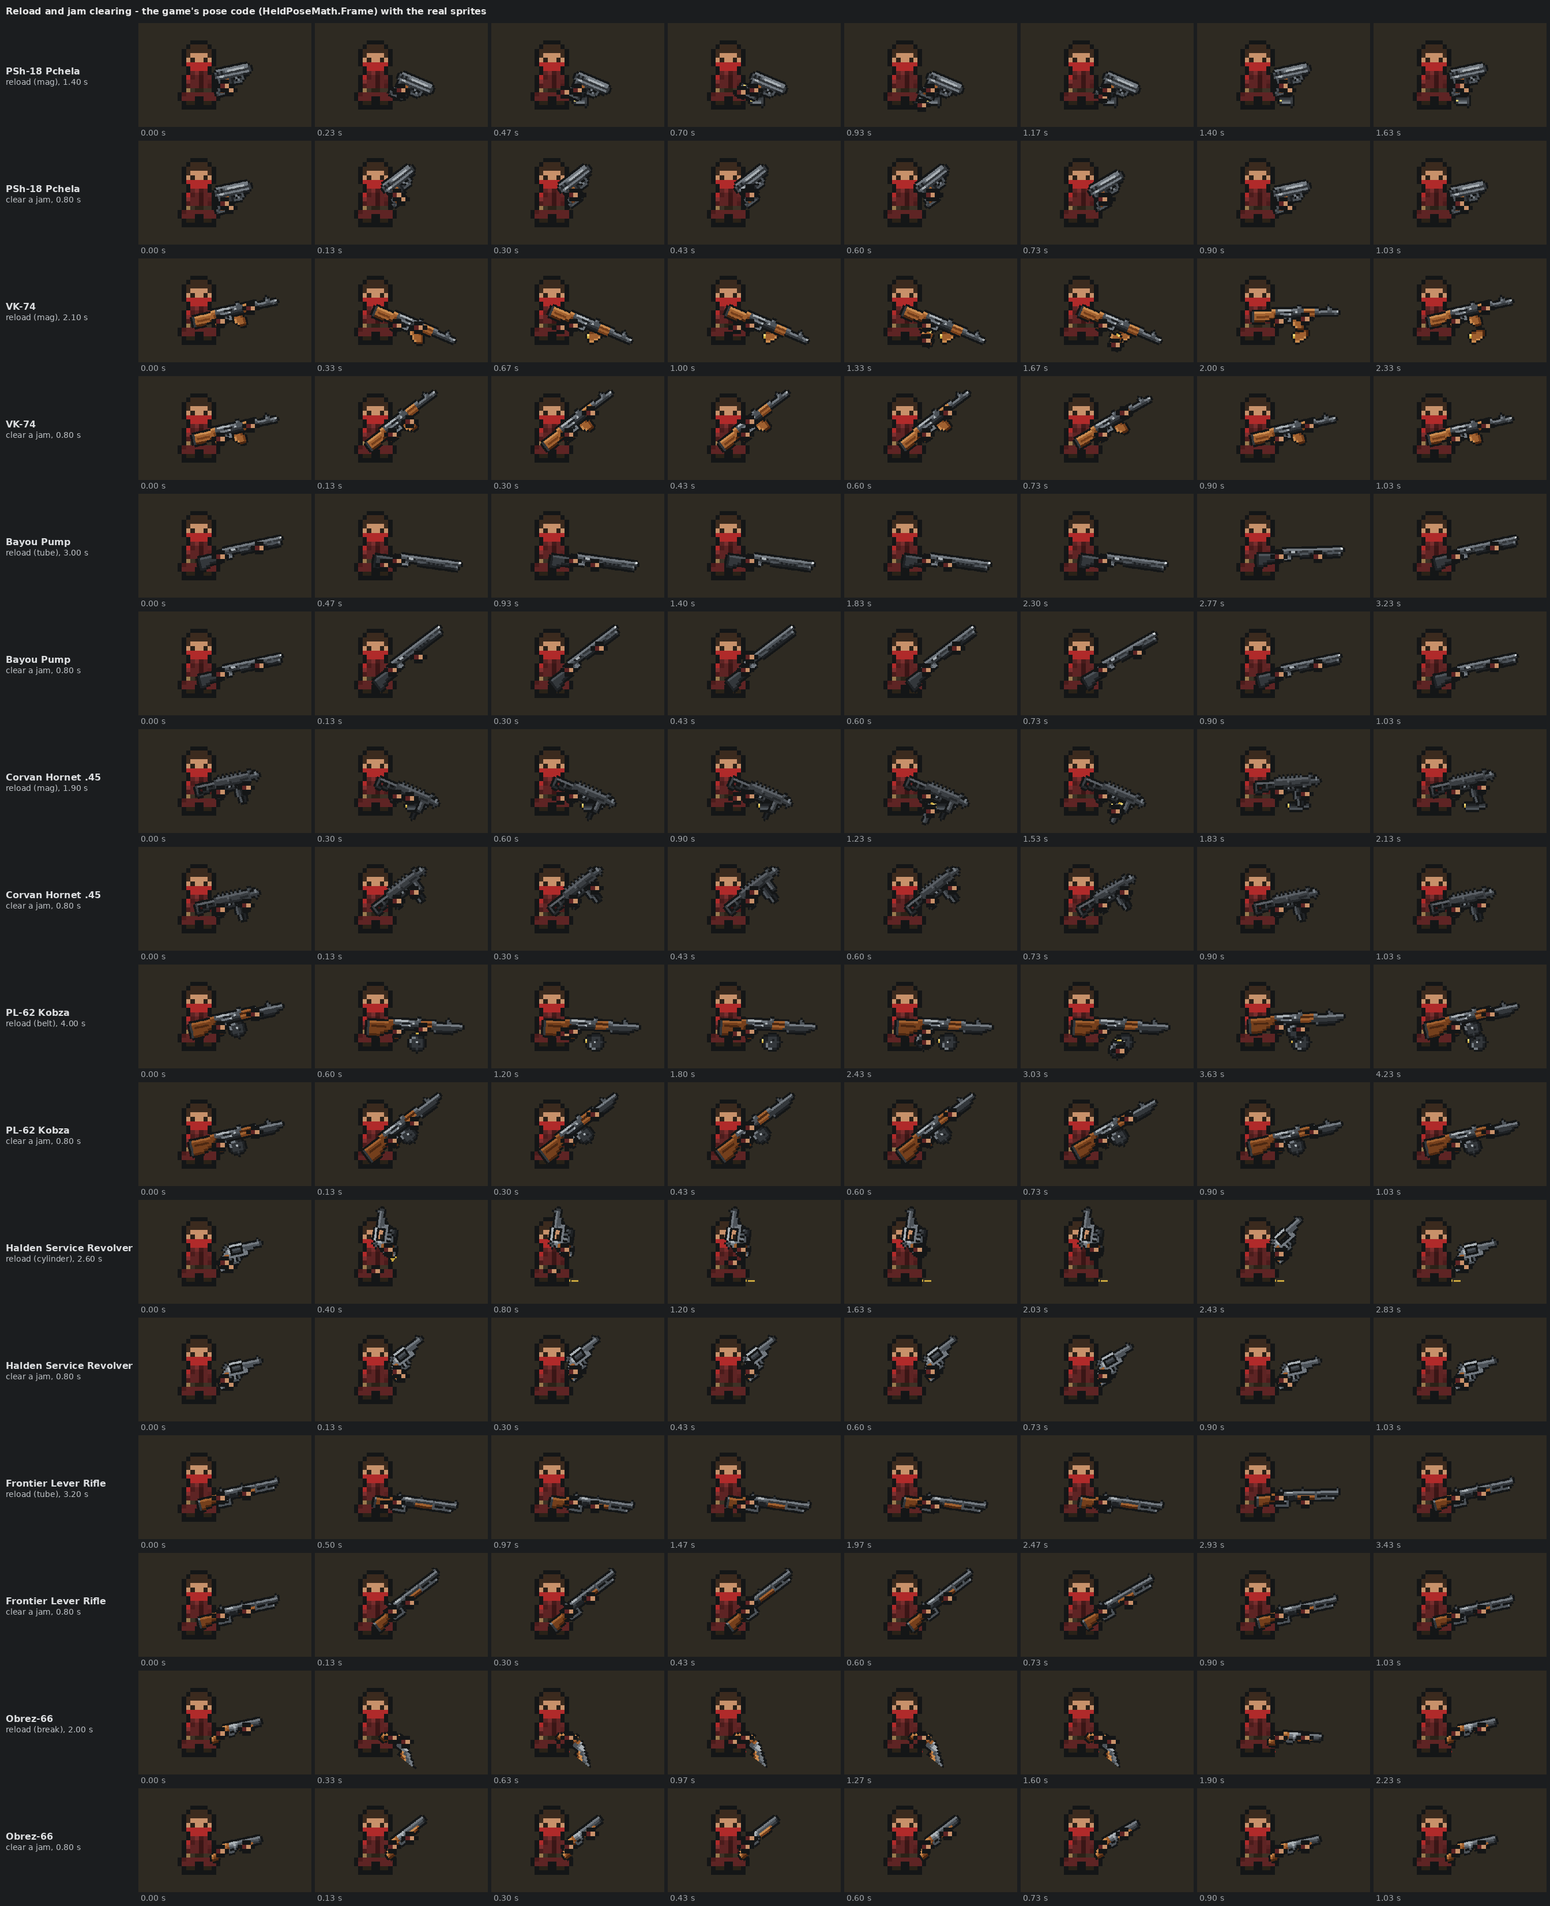
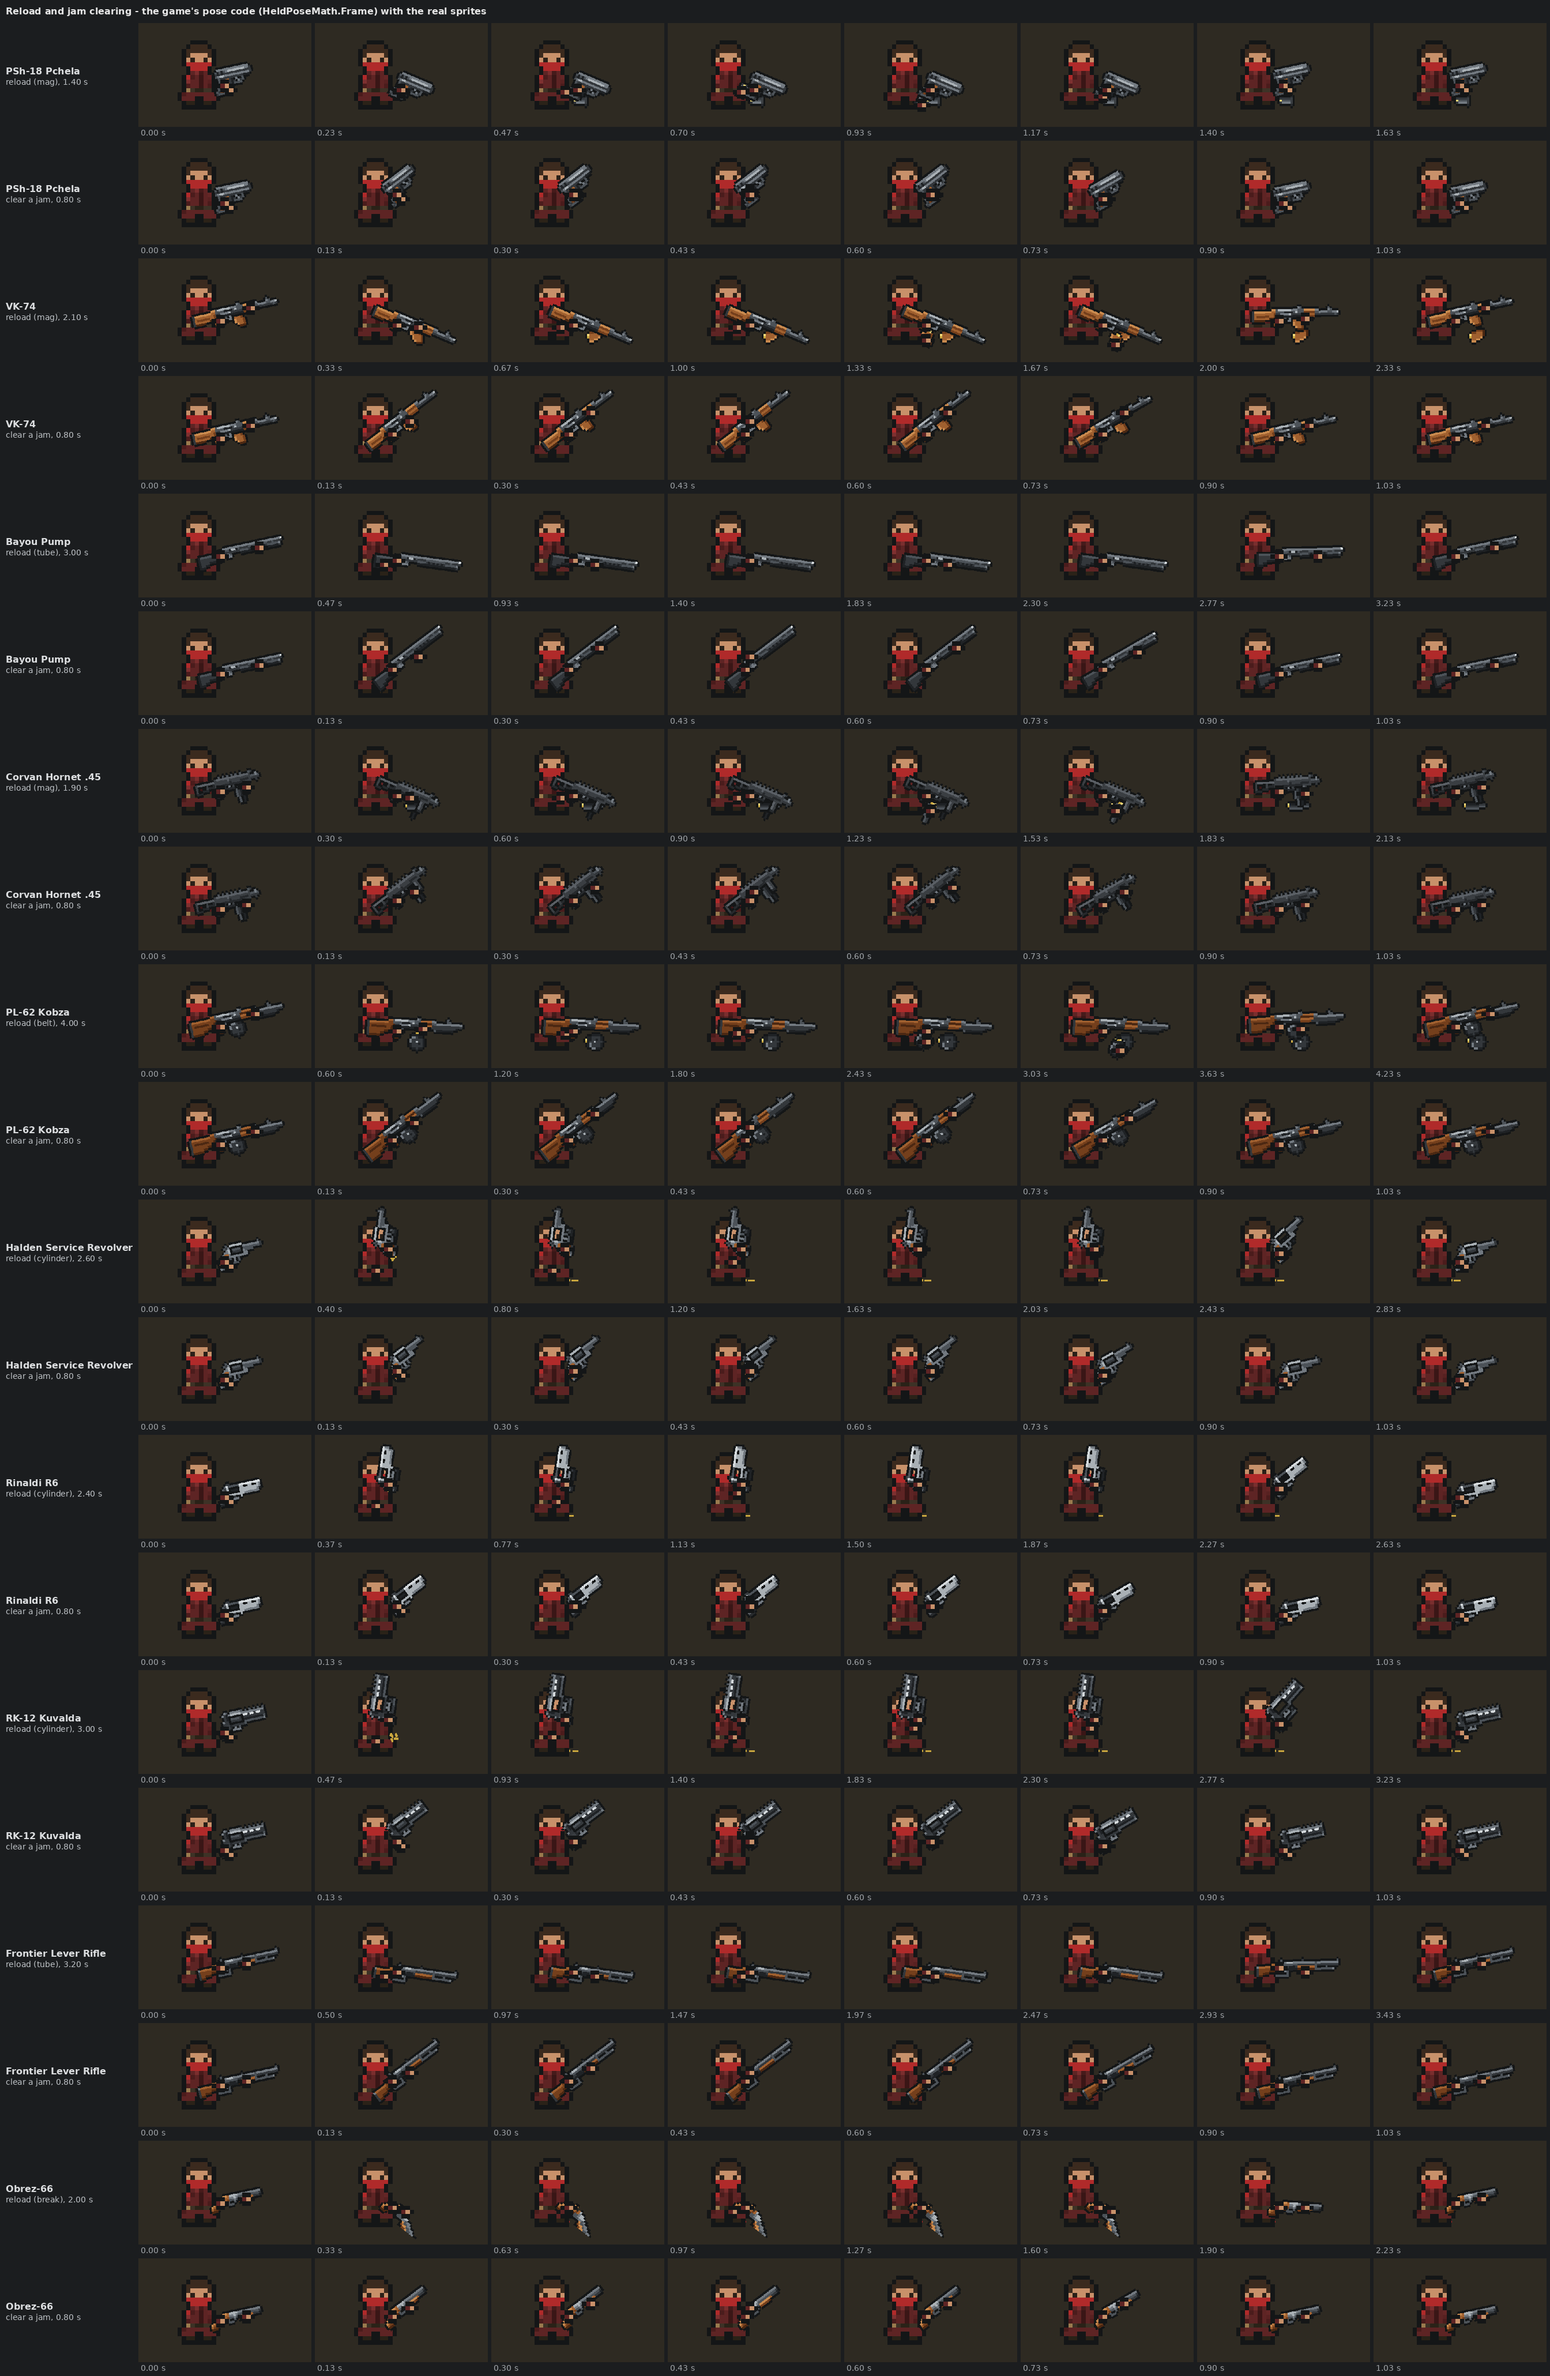
Renders: Rinaldi R6 and RK-12 Kuvalda reloads
Claude-Session: https://claude.ai/code/session_017RM7tWVFFchFrbQYy4G9ho

diff --git a/Tools/compile_check/test/Program.cs b/Tools/compile_check/test/Program.cs
@@ -714,7 +714,7 @@ static class Program {
   // draws with), for Tools/render/held_anim.py to put the real sprites on. 30 frames a second, aiming right and a little up.
   static void HeldFrames(string path) {
     var sb = new System.Text.StringBuilder("[");
-    var guns = new[] { ("sidearm", "PSh18Pchela"), ("assault", "VK74"), ("shotgun", "BayouPump"), ("smg", "CorvanHornet45"), ("heavy", "PL62Kobza"), ("sidearm", "HaldenServiceRevolver"), ("sniper", "FrontierLeverRifle"), ("shotgun", "Obrez66") };
+    var guns = new[] { ("sidearm", "PSh18Pchela"), ("assault", "VK74"), ("shotgun", "BayouPump"), ("smg", "CorvanHornet45"), ("heavy", "PL62Kobza"), ("sidearm", "HaldenServiceRevolver"), ("sidearm", "RinaldiR6"), ("sidearm", "RK12Kuvalda"), ("sniper", "FrontierLeverRifle"), ("shotgun", "Obrez66") };
     int armor = Array.IndexOf(SpriteAtlasIndex.Armor, "Raider Stitched Coat"); if (armor < 0) armor = 0;   // bare hands, red cuffs: the hand work reads
     bool firstAnim = true;
     foreach (var (cat, key) in guns) {
